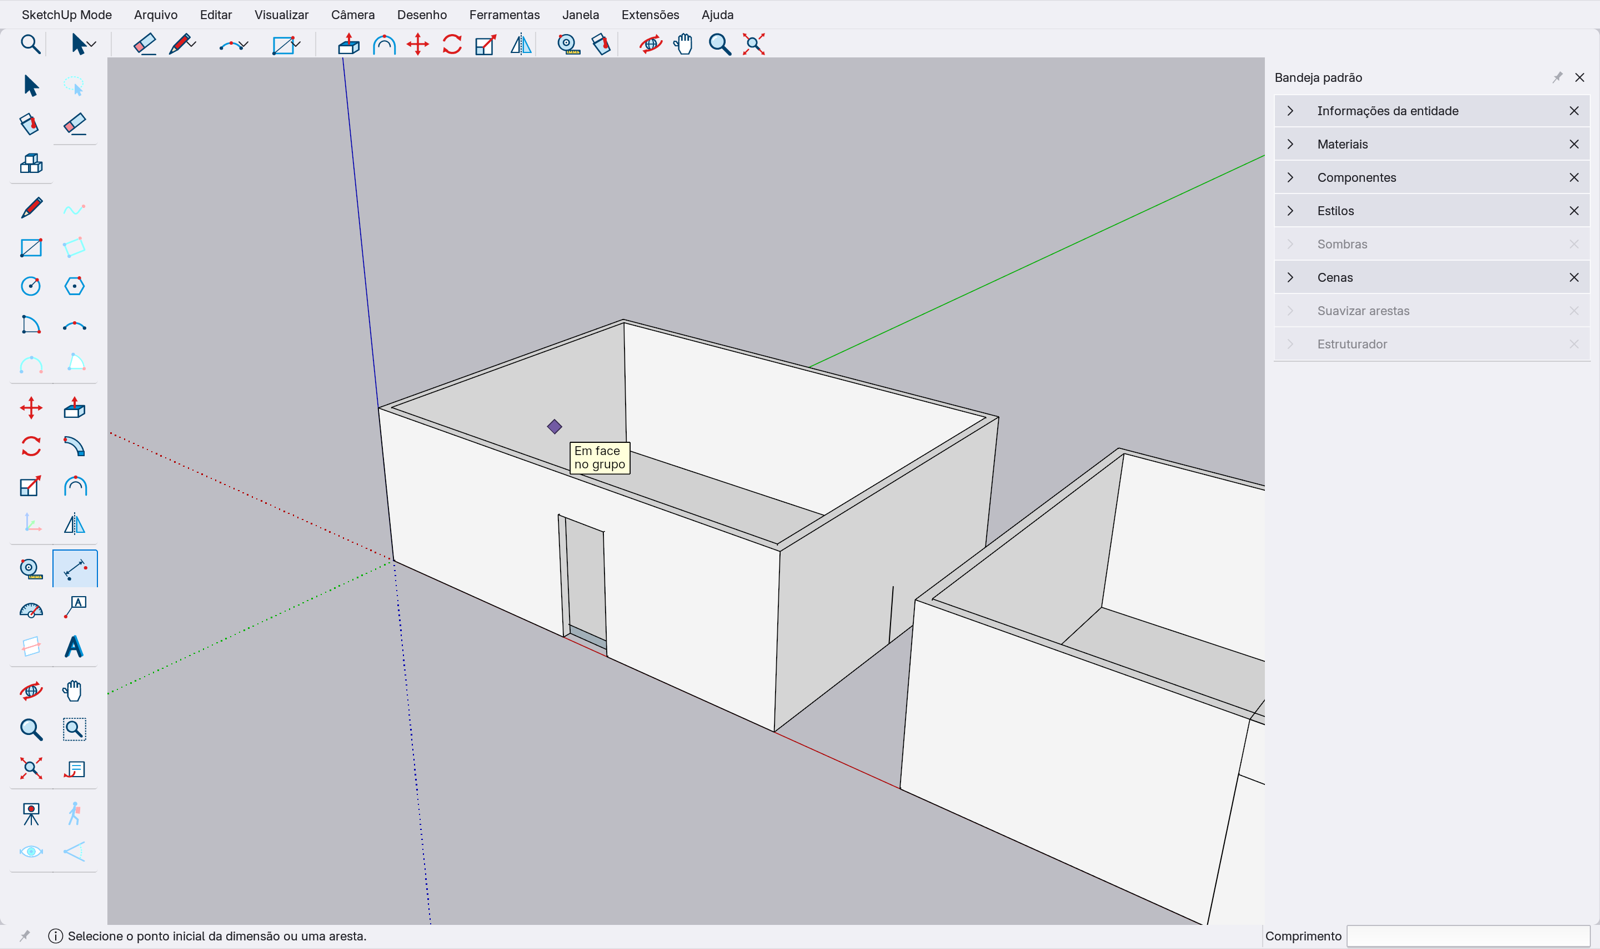
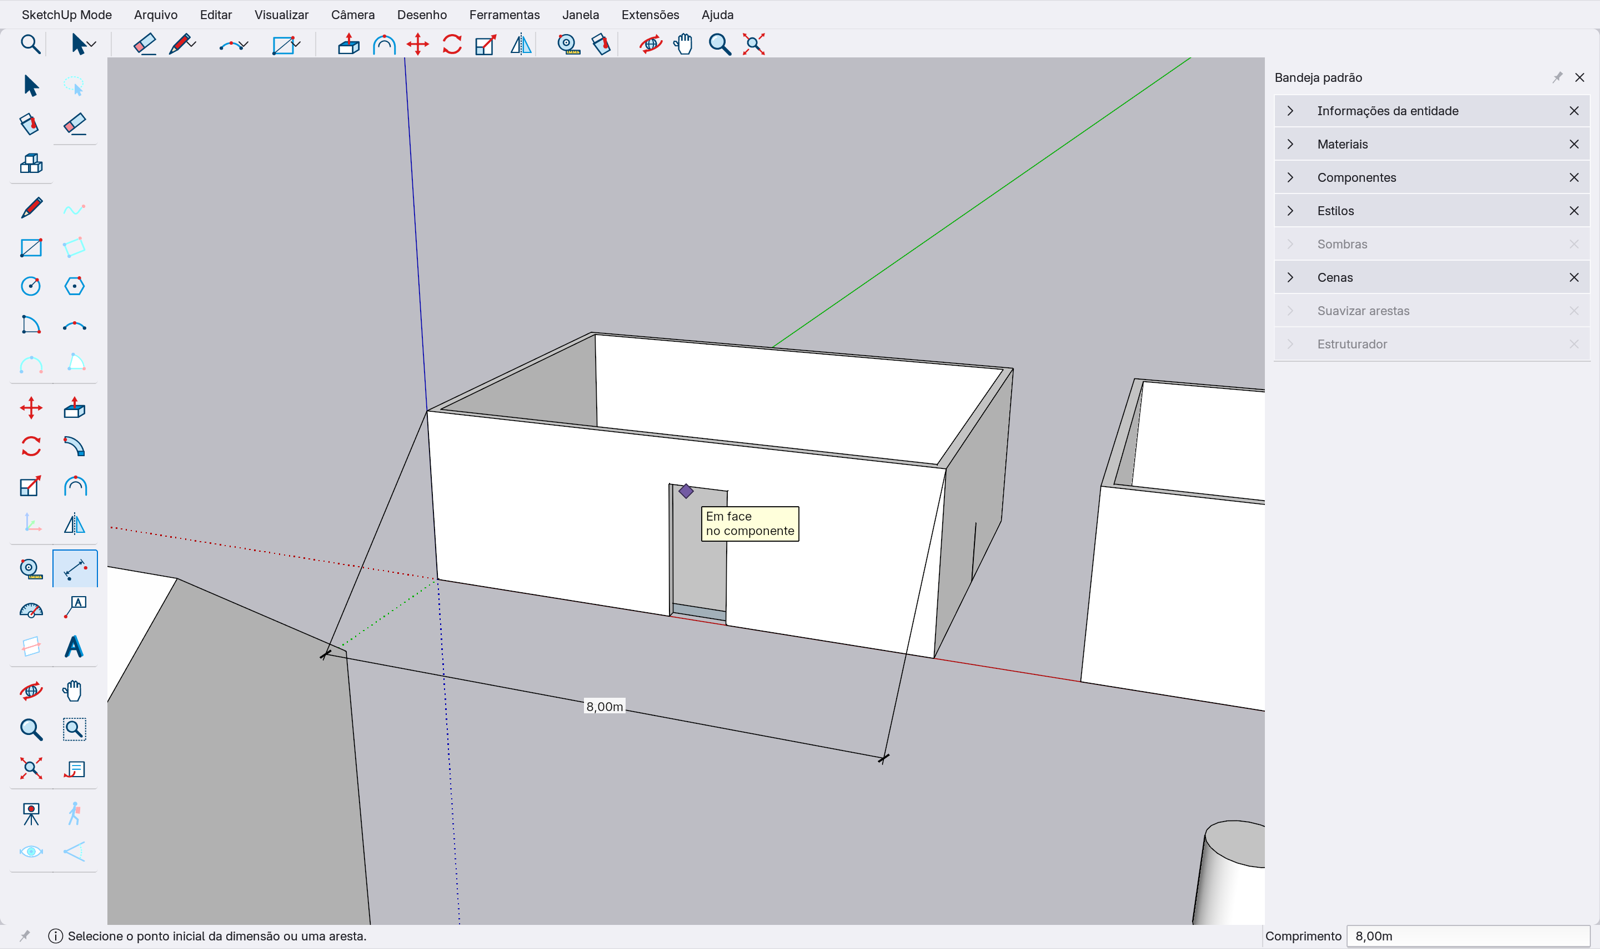
su(A): primeiro dia 15/15 + trackpad, no XFAIL (dimension offset point away from the edge); prints dia_passoNN

diff --git a/tests/sketchup_mode/gui/scn_primeiro_dia.py b/tests/sketchup_mode/gui/scn_primeiro_dia.py
@@ -760,7 +760,7 @@ def run(h):
         yield 0.3
         clicks()
         yield 0.3
-        go((4.0, -1.0, 3.4))
+        go((4.0, -3.0, 0.0))                       # pull the dimension out in front, over empty ground
         yield 0.3
         clicks()
         yield 0.5
@@ -788,7 +788,8 @@ def run(h):
                   for dx in range(-40, 41, 2) for dy in range(-14, 15, 2)]
             light = sum(1 for c in px if min(c) >= 235)
             dark = sum(1 for c in px if max(c) <= 90)
-            return light > 20 and dark > 3, {"claros": light, "escuros": dark, "desenhadas": annotations.last_drawn()}
+            return light > 20 and dark > 3, {"claros": light, "escuros": dark, "desenhadas": annotations.last_drawn(),
+                                             "offset": tuple(round(c, 3) for c in dm.offset), "meio_px": tuple(mid)}
         h.park_mouse()
         yield 0.5
         ok1, info1 = text_visible("antes")

diff --git a/doc/sketchup_mode/checklists/WS_A.md b/doc/sketchup_mode/checklists/WS_A.md
@@ -71,6 +71,7 @@ Legenda: `[ ]` pendente · `[~]` em andamento · `[x]` feito. Brief: `PLANO.md` 
 - Achado (C/Linha, a investigar): começar a Linha **sobre o eixo vermelho** em (4,0,0) e digitar 3 → o 1º segmento saiu com z≈0,15 e comprimento errado; a partir da origem ou de um vértice fica exato. O M-A usa a origem e o canto da linha.
 
 ### Teste final de aceite (§12) — `scn_primeiro_dia`
-- 15 passos + 2ª passada de navegação com trackpad (passo 41), entrada simulada pelos caminhos normais; 94 checks; prints `screens/dia_passoNN.png`; resumo `dia_resumo.json`. Resultado atual: 15/15 + trackpad PASS; XFAIL: visual/legibilidade da cota ao orbitar (AC-DIM-3, G).
+- 15 passos + 2ª passada de navegação com trackpad (passo 41), entrada simulada pelos caminhos normais; 94 checks; prints `screens/dia_passoNN.png`; resumo `dia_resumo.json`. Resultado em 6beb3d5: 15/15 + trackpad PASS, 96 checks, sem XFAIL (AC-DIM-3 checado: texto da cota com fundo branco antes e depois de orbitar).
+- `scn_keys` (§5.1, AC-VCB-2..4): auditoria do keymap mesclado + varredura de teclas sobre viewport/Bandeja/LTS/toolbar/status + `N` Enter sobre botões e campo Medidas — PASS. Achou e corrigiu: comando com poll falso (G sem seleção) virava perf.error; agora é no-op.
 - Desvios declarados no cenário: câmera movida por script entre áreas de trabalho; cor escolhida com `su.material_pick` (o mesmo operador do swatch); botão direito abre o menu (checado) e o item "Criar grupo" é executado com G (mesmo comando, §5.3) — popups do Blender não são endereçáveis por RNA.
 - Harness: `h.drag(...)` segura modificadores como eventos de tecla reais (CLICK_DRAG lê os modificadores do estado da janela — achado de G). Trackpad: o delta do `event_simulate` = posição − anterior; o cenário volta o cursor ao lugar entre eventos (gesto real não move o cursor).
